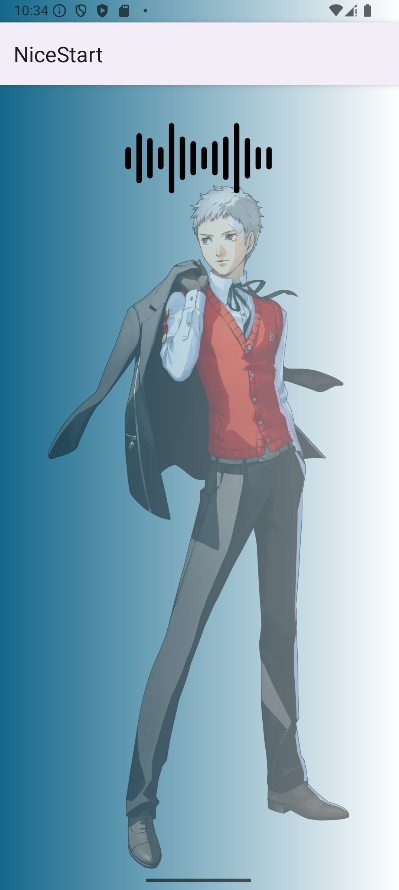
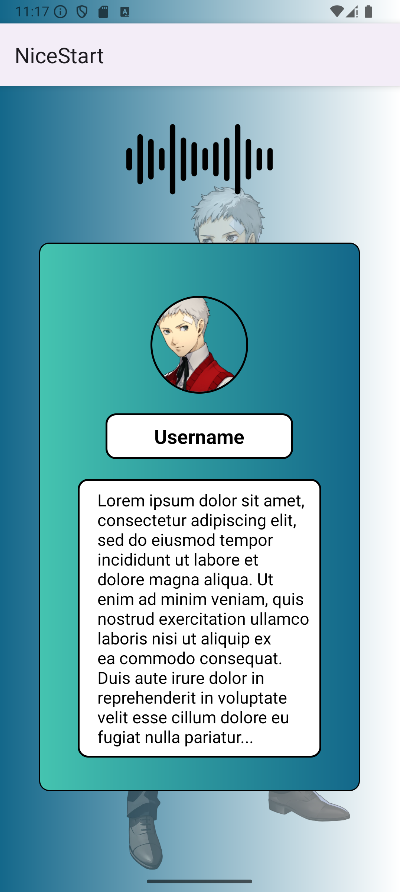
Added profile screen to main layout.

diff --git a/app/src/main/java/com/crraul/nicestart/Main.java b/app/src/main/java/com/crraul/nicestart/Main.java
@@ -1,12 +1,16 @@
 package com.crraul.nicestart;
 
 import android.os.Bundle;
+import android.widget.ImageView;
 
 import androidx.activity.EdgeToEdge;
 import androidx.appcompat.app.AppCompatActivity;
 import androidx.core.graphics.Insets;
 import androidx.core.view.ViewCompat;
 import androidx.core.view.WindowInsetsCompat;
+
+import com.bumptech.glide.Glide;
+import com.bumptech.glide.load.resource.drawable.DrawableTransitionOptions;
 
 public class Main extends AppCompatActivity {
 
@@ -15,6 +19,21 @@ public class Main extends AppCompatActivity {
         super.onCreate(savedInstanceState);
         EdgeToEdge.enable(this);
         setContentView(R.layout.activity_main);
+
+        ImageView pfp;
+
+        pfp = findViewById(R.id.pfp);
+
+        Glide.with(this)
+                .load("https://static.wikia.nocookie.net/megamitensei/images/a/a5/P3RE_Portrait_Akihiko.png/revision/latest/scale-to-width-down/1000?cb=20240410011711")
+//                .load(R.drawable.p3re_foto)
+                .transition(DrawableTransitionOptions.withCrossFade(500))
+//                .centerCrop()
+                .circleCrop()
+//                .placeholder(new ColorDrawable(this.getResources().getColor(R.color.emerald)))
+                .into(pfp);
+
+
         ViewCompat.setOnApplyWindowInsetsListener(findViewById(R.id.main), (v, insets) -> {
             Insets systemBars = insets.getInsets(WindowInsetsCompat.Type.systemBars());
             v.setPadding(systemBars.left, systemBars.top, systemBars.right, systemBars.bottom);

diff --git a/app/src/main/java/com/crraul/nicestart/Login.java b/app/src/main/java/com/crraul/nicestart/Login.java
@@ -1,8 +1,11 @@
 package com.crraul.nicestart;
 
 import android.content.Intent;
+import android.graphics.drawable.ColorDrawable;
 import android.os.Bundle;
+import android.util.Log;
 import android.view.View;
+import android.widget.ImageView;
 
 import androidx.activity.EdgeToEdge;
 import androidx.appcompat.app.AppCompatActivity;
@@ -10,8 +13,11 @@ import androidx.core.graphics.Insets;
 import androidx.core.view.ViewCompat;
 import androidx.core.view.WindowInsetsCompat;
 
-public class Login extends AppCompatActivity {
+// lo del glide
+import com.bumptech.glide.Glide;
+import com.bumptech.glide.load.resource.drawable.DrawableTransitionOptions;
 
+public class Login extends AppCompatActivity {
     @Override
     protected void onCreate(Bundle savedInstanceState) {
         super.onCreate(savedInstanceState);
@@ -23,6 +29,7 @@ public class Login extends AppCompatActivity {
             v.setPadding(systemBars.left, systemBars.top, systemBars.right, systemBars.bottom);
             return insets;
         });
+
     }
 
     public void openSignup(View v) {

diff --git a/README.md b/README.md
@@ -5,59 +5,115 @@
 ## Index
 
 - ### [Design](#Design)
+  - #### [Colors](#Colors)
+  - #### [Styles](#Styles)
 - ### [Layouts](#Layouts)
+  - #### [Login page](#Login)
+  - #### [Signup page](#Signup)
+  - #### [Main page](#Main)
 
 ---
 
 ## Design
-NiceStart's design is focused on being simple and responsive, using a blue color palette 
-enlightened with a greyscale.
-The used colors are:
-- Black `#FF000000`
-- White `#FFFFFFFF`
-- Blue `#13678A` -> mainly used for the gradient background
-- Emerald `#45C4B0` -> to draw attention to the buttons that are desired to be pressed 
-- Transparent `#00FFFF00` -> for the outlined button style
- 
+NiceStart's design is focused on being simple and responsive, using a blue color palette
+accented with black and white.
 
+### Colors
+
+> Note: all color names are to reference the names used in the code, they do not necessarily have to be accurate.
+
+- black <img src="https://placehold.co/15x15/000000/000000.png" alt="black icon"> `#000000`
+- white <img src="https://placehold.co/15x15/FFFFFF/FFFFFF.png" alt="white icon"> `#FFFFFF`
+- blue <img src="https://placehold.co/15x15/13678A/13678A.png" alt="blue icon"> `#13678A` -> mainly used for the gradient background
+- emerald <img src="https://placehold.co/15x15/45C4B0/45C4B0.png" alt="emerald icon"> `#45C4B0` -> to draw user's attention where we want them to look at 
+- transparent `#00FFFF00` -> to make the hollow effect, usually accompanied by a border
+
+### Styles
+
+Speaking of which, for the buttons there are two defined styles, ButtonFlat and ButtonOutlined:
+- ButtonFlat
+  - TextColor = black 
+  - BackgroundColor = emerald
+  - Stroke (border) = no
+  - CornerRadius = 10dp
+- ButtonOutlined
+  - TextColor = white 
+  - TextStyle = bold
+  - BackgroundColor = transparent
+  - Stroke (border) = yes, white
+  - CornerRadius = 10dp
 
 ## Layouts
-NiceStart is composed by 3 layouts: a login page, a signup page and a main page where the user will 
+NiceStart is composed by 3 layouts: a login page, a signup page and a main page where the user will
 be sent after completing one of the previous pages.
 <br>
 Every page has the app's logotype positioned on the top.
 
 ### Login
-[see activity_login.xml](app/src/main/res/layout/activity_login.xml)
+> Note : see [activity_login.xml](app/src/main/res/layout/activity_login.xml) / [activity_signup.xml (land)](app/src/main/res/layout-land/activity_login.xml)
+
 <br>
 The login page has two inputs, one for the username and another for the password.
-Under them there are positioned two buttons, which will allow the user to complete the login process 
-and switch to the [signup page](#signup), respectively.
+Under them there are positioned two buttons, which will allow the user to complete the login process
+and switch to the signup page, respectively.
 <br>
 <img src="images/login.PNG" alt="login layout image" width="30%"/>
 <img src="images/login-land.PNG" alt="login land layout image" width="65%"/>
 
 ### Signup
-[see activity_signup.xml](app/src/main/res/layout/activity_signup.xml)
-<br>
+> Note : see [activity_signup.xml](app/src/main/res/layout/activity_signup.xml) / [activity_signup.xml (land)](app/src/main/res/layout-land/activity_signup.xml)
+
 Our signup page is built quite simple, having only a username, email, password and password
-confirmation input, all followed by a SIGNUP button that will complete the process and send the 
-user to the [main page](#main). On the other hand, there is a CANCEL button that will stop the process and 
-return the user to the [login page](#login).
+confirmation input, all followed by a SIGNUP button that will complete the process and send the
+user to the main page. On the other hand, there is a CANCEL button that will stop the process and
+return the user to the login page.  
 <br>
-It also has an ActionBar that can do the same as the CANCEL button - returning to the login page -.
-<br>
+It also has an ActionBar that can do the same as the CANCEL button - returning to the login page -.  
 <img src="images/signup.PNG" alt="signup layout image" width="30%"/>
 <img src="images/signup-land.PNG" alt="signup land layout image" width="65%"/>
 
 
 ### Main
-[see activity_main.xml](app/src/main/res/layout/activity_main.xml)
-<br>
-After completing the login/signup process the user will be sent to the main page although it only 
-has an ActionBar, background image and logotype, so there's no difference with the landscape version.
+> Note : see [activity_main.xml](app/src/main/res/layout/activity_main.xml) / [activity_main.xml (land)](app/src/main/res/layout-land/activity_main.xml)
+
+After completing the login/signup process the user will be sent to the main page, who has an ActionBar and
+the profile of the user, composed by a profile picture, the username and the bio/description the user 
+has.  
+Also it is important to remark a slight difference between the portrait and the landscape layout, which
+is the layout components used for them in order to keep the elements properly displayed:
+
+#### Portrait hierarchy
+- main
+  - background image
+  - logotype
+  - guidelines (vertical and horizontal)
+  - userLayout (vertical)
+    - pfp
+    - username
+    - user info
+    - 
+#### Portrait hierarchy
+- main
+  - background image
+  - logotype
+  - guidelines (vertical and horizontal)
+  - userLayout (vertical)
+    - pfp      
+    - linear layout (horizontal)
+        - username
+        - user info
+
 <br>
 <img src="images/main.PNG" alt="main layout image" width="30%"/>
 <img src="images/main-land.PNG" alt="main land layout image" width="65%"/>
 
 
+> For this project I have used images of characters from Persona 3 Reload, which 
+> are the intellectual property of ATLUS Co., Ltd., a division of SEGA Corporation. I fully acknowledge
+> that these images, along with all other content related to Persona 3 Reload —including characters, designs,
+> artwork, and any related media—are not my property and remain the exclusive rights of ATLUS.  
+> <br>
+> The use of these materials in my project is solely for illustrative purposes, and no ownership or 
+> affiliation with ATLUS is implied.  
+> <br>
+> All rights reserved by ATLUS Co., Ltd.
